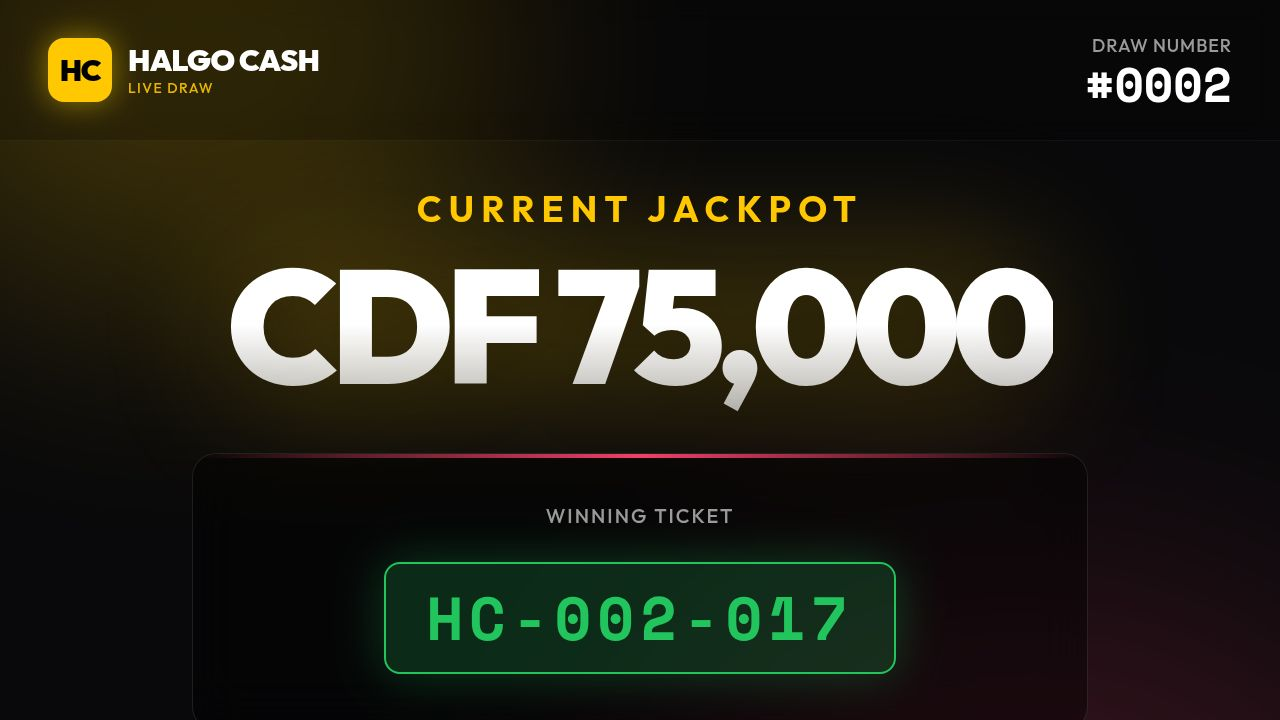
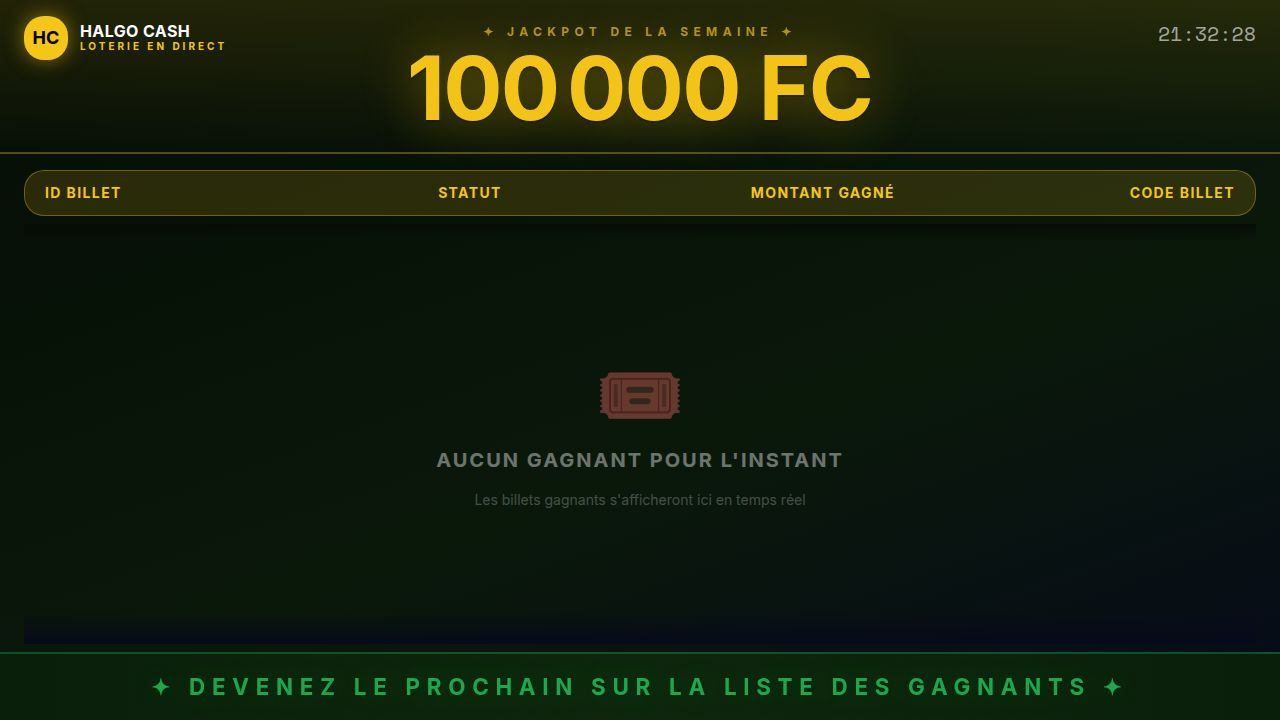
Update application to use Replit-managed Clerk authentication and improve site stability
Refactor authentication middleware and client-side integration to utilize the canonical Replit Clerk pattern, including updates to API server, application components, and build scripts.

Replit-Commit-Author: Agent
Replit-Commit-Session-Id: d2eab140-c024-4f0a-bea8-a47ed5fc9be2
Replit-Commit-Checkpoint-Type: full_checkpoint
Replit-Commit-Event-Id: 93245f81-e845-417f-9ac4-9013c97396b7
Replit-Commit-Screenshot-Url: https://storage.googleapis.com/screenshot-production-us-central1/e5753da9-46f3-433f-bc62-748232460c6c/d2eab140-c024-4f0a-bea8-a47ed5fc9be2/WuvJcSo
Replit-Helium-Checkpoint-Created: true

diff --git a/artifacts/halgo-app/src/App.tsx b/artifacts/halgo-app/src/App.tsx
@@ -1,6 +1,7 @@
 import { useEffect, useRef } from "react";
 import { ThemeProvider } from "@/lib/theme-context";
 import { ClerkProvider, useClerk, useAuth, AuthenticateWithRedirectCallback } from "@clerk/react";
+import { publishableKeyFromHost } from "@clerk/react/internal";
 import { Switch, Route, useLocation, Router as WouterRouter } from "wouter";
 import { QueryClient, QueryClientProvider, useQueryClient } from "@tanstack/react-query";
 import { Toaster } from "@/components/ui/toaster";
@@ -17,8 +18,16 @@ import { Loader2 } from "lucide-react";
 
 const queryClient = new QueryClient();
 
-const clerkPubKey = import.meta.env.VITE_CLERK_PUBLISHABLE_KEY as string | undefined;
-const clerkProxyUrl = import.meta.env.VITE_CLERK_PROXY_URL as string | undefined;
+// REQUIRED — resolves key from window.location.hostname for multi-domain support.
+const clerkPubKey = publishableKeyFromHost(
+  window.location.hostname,
+  import.meta.env.VITE_CLERK_PUBLISHABLE_KEY,
+);
+
+// REQUIRED — empty in dev (Clerk hits dev FAPI directly), auto-set in prod.
+// Do NOT gate on import.meta.env.PROD — the empty dev value is intentional.
+const clerkProxyUrl = import.meta.env.VITE_CLERK_PROXY_URL;
+
 const basePath = import.meta.env.BASE_URL.replace(/\/$/, "");
 
 function stripBase(path: string): string {
@@ -92,7 +101,6 @@ const AppContent = (
 );
 
 function AppRoutes() {
-  if (!clerkPubKey) return AppContent;
   return <AuthGuard>{AppContent}</AuthGuard>;
 }
 
@@ -133,14 +141,6 @@ function Routes() {
 function AppWithClerk() {
   const [, setLocation] = useLocation();
 
-  if (!clerkPubKey) {
-    return (
-      <QueryClientProvider client={queryClient}>
-        <Routes />
-      </QueryClientProvider>
-    );
-  }
-
   return (
     <ClerkProvider
       publishableKey={clerkPubKey}
@@ -162,14 +162,12 @@ function AppWithClerk() {
 function App() {
   return (
     <ThemeProvider>
-      <QueryClientProvider client={queryClient}>
-        <TooltipProvider>
-          <WouterRouter base={basePath}>
-            <AppWithClerk />
-          </WouterRouter>
-          <Toaster />
-        </TooltipProvider>
-      </QueryClientProvider>
+      <TooltipProvider>
+        <WouterRouter base={basePath}>
+          <AppWithClerk />
+        </WouterRouter>
+        <Toaster />
+      </TooltipProvider>
     </ThemeProvider>
   );
 }

diff --git a/artifacts/api-server/src/app.ts b/artifacts/api-server/src/app.ts
@@ -6,9 +6,11 @@ import pinoHttp from "pino-http";
 import helmet from "helmet";
 import { rateLimit } from "express-rate-limit";
 import { clerkMiddleware } from "@clerk/express";
+import { publishableKeyFromHost } from "@clerk/shared/keys";
 import {
   CLERK_PROXY_PATH,
   clerkProxyMiddleware,
+  getClerkProxyHost,
 } from "./middlewares/clerkProxyMiddleware";
 import router from "./routes";
 import { logger } from "./lib/logger";
@@ -129,15 +131,16 @@ app.use(
 );
 
 // ── Clerk middleware ───────────────────────────────────────────────────────
-// CLERK_PUBLISHABLE_KEY is the standard server-side name; VITE_CLERK_PUBLISHABLE_KEY
-// is the Vite-prefixed variant set on Render — accept either.
-const clerkPublishableKey =
-  process.env.CLERK_PUBLISHABLE_KEY ?? process.env.VITE_CLERK_PUBLISHABLE_KEY;
+// Resolve the publishable key from the incoming request host so the same
+// server can serve multiple Clerk custom domains. Falls back to
+// CLERK_PUBLISHABLE_KEY when the host doesn't map to a custom domain.
 app.use(
-  clerkMiddleware({
-    publishableKey: clerkPublishableKey,
-    secretKey: process.env.CLERK_SECRET_KEY,
-  }),
+  clerkMiddleware((req) => ({
+    publishableKey: publishableKeyFromHost(
+      getClerkProxyHost(req) ?? "",
+      process.env.CLERK_PUBLISHABLE_KEY,
+    ),
+  })),
 );
 
 // ── API routes ────────────────────────────────────────────────────────────

diff --git a/artifacts/halgo-app/src/pages/sign-in.tsx b/artifacts/halgo-app/src/pages/sign-in.tsx
@@ -8,10 +8,10 @@ const signInAppearance = {
   variables: {
     colorPrimary: "#3aab3a",
     colorBackground: "transparent",
-    colorInputBackground: "rgba(255,255,255,0.08)",
-    colorInputText: "#ffffff",
-    colorText: "#ffffff",
-    colorTextSecondary: "rgba(255,255,255,0.5)",
+    colorInput: "rgba(255,255,255,0.08)",
+    colorInputForeground: "#ffffff",
+    colorForeground: "#ffffff",
+    colorMutedForeground: "rgba(255,255,255,0.5)",
     colorNeutral: "#ffffff",
     colorDanger: "#f87171",
     borderRadius: "0.75rem",